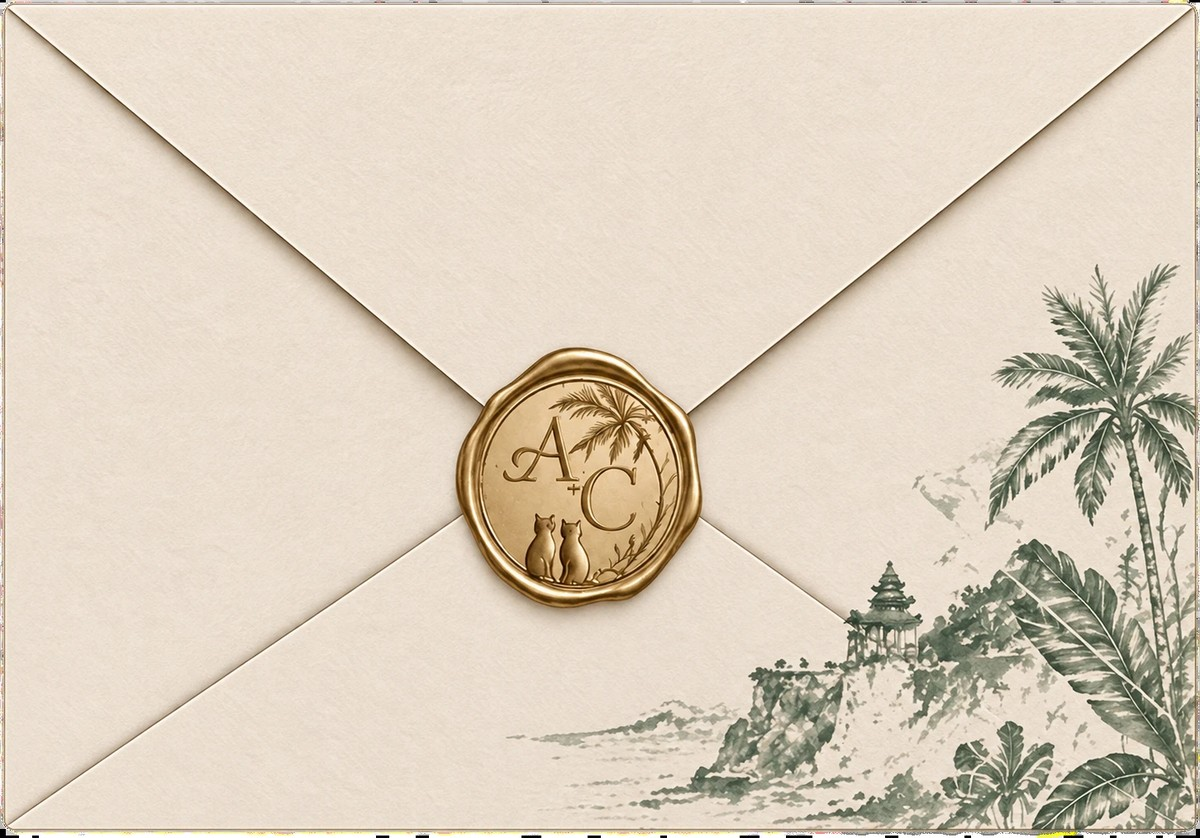
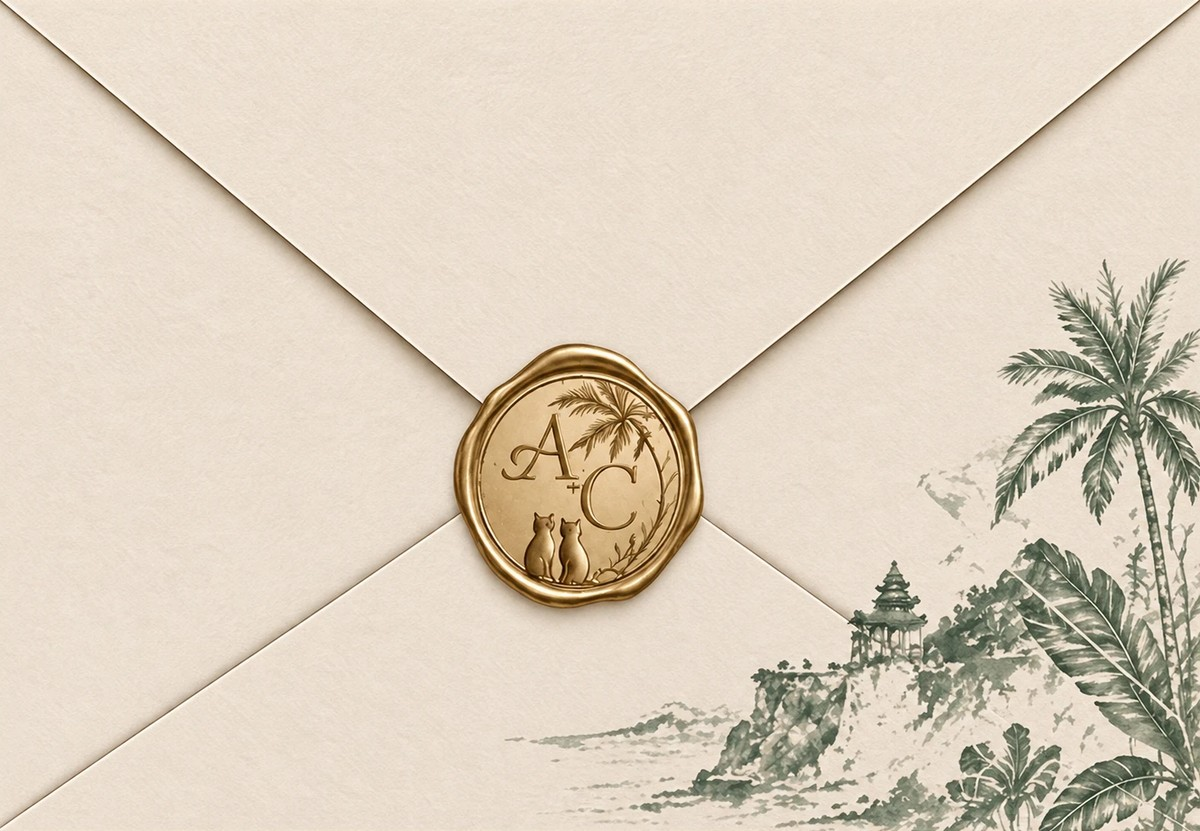
Envelope crop stays inside the artwork's shadowed edge
Claude-Session: https://claude.ai/code/session_01GqK2ENqeRUwQmtgcSZFd9X

diff --git a/index.html b/index.html
@@ -31,7 +31,7 @@
   --mono:'Roboto Mono',ui-monospace,SFMono-Regular,Menlo,Consolas,monospace;
   --script:'Pinyon Script','Snell Roundhand','Brush Script MT',cursive;
   --ew:min(86vw,440px);            /* envelope width */
-  --eh:calc(var(--ew) * 0.698);       /* envelope height */
+  --eh:calc(var(--ew) * 0.692);       /* envelope height */
   --pw:min(86vw,380px,60svh);      /* passport width  */
   --ph:calc(var(--pw) * 1.435);     /* passport height */
   --gutter:clamp(20px,6vw,48px);
@@ -203,7 +203,7 @@ button,input,select,textarea{font:inherit;color:inherit}
 .env{width:var(--ew);height:var(--eh);margin-left:calc(var(--ew) / -2);margin-top:calc(var(--eh) / -2)}
 .env-back{z-index:2;background:#E3DBC9;border-radius:6px}
 .env-pocket{z-index:5;border-radius:6px;overflow:hidden;background:url("assets/envelope-sealed.jpg") center/100% 100% no-repeat;
-  clip-path:polygon(0 0,48.10% 57.17%,100% 0,100% 100%,0 100%);-webkit-clip-path:polygon(0 0,48.10% 57.17%,100% 0,100% 100%,0 100%)}
+  clip-path:polygon(0 0,48.07% 57.45%,100% 0,100% 100%,0 100%);-webkit-clip-path:polygon(0 0,48.07% 57.45%,100% 0,100% 100%,0 100%)}
 .env-pocket .addr{
   position:absolute;left:8%;right:44%;bottom:7%;text-align:center;
   font-family:var(--script);font-size:clamp(19px,5.2vw,26px);color:#6B6558;
@@ -215,11 +215,11 @@ button,input,select,textarea{font:inherit;color:inherit}
 }
 .env-flap .flap-face{
   position:absolute;inset:0;background:url("assets/envelope-sealed.jpg") center/100% 100% no-repeat;
-  clip-path:polygon(0 0,100% 0,48.10% 57.17%);
-  -webkit-clip-path:polygon(0 0,100% 0,48.10% 57.17%);
+  clip-path:polygon(0 0,100% 0,48.07% 57.45%);
+  -webkit-clip-path:polygon(0 0,100% 0,48.07% 57.45%);
 }
 .seal{
-  position:absolute;left:48.10%;top:57.17%;width:calc(var(--ew) * 0.2280);height:calc(var(--ew) * 0.2280);margin:calc(var(--ew) * -0.1140) 0 0 calc(var(--ew) * -0.1140);
+  position:absolute;left:48.07%;top:57.45%;width:calc(var(--ew) * 0.2315);height:calc(var(--ew) * 0.2315);margin:calc(var(--ew) * -0.1157) 0 0 calc(var(--ew) * -0.1157);
   will-change:transform;
 }
 .seal-art{position:absolute;inset:0;background:url("assets/seal.png") center/100% 100% no-repeat;filter:drop-shadow(0 3px 3px rgba(60,40,5,.35))}
